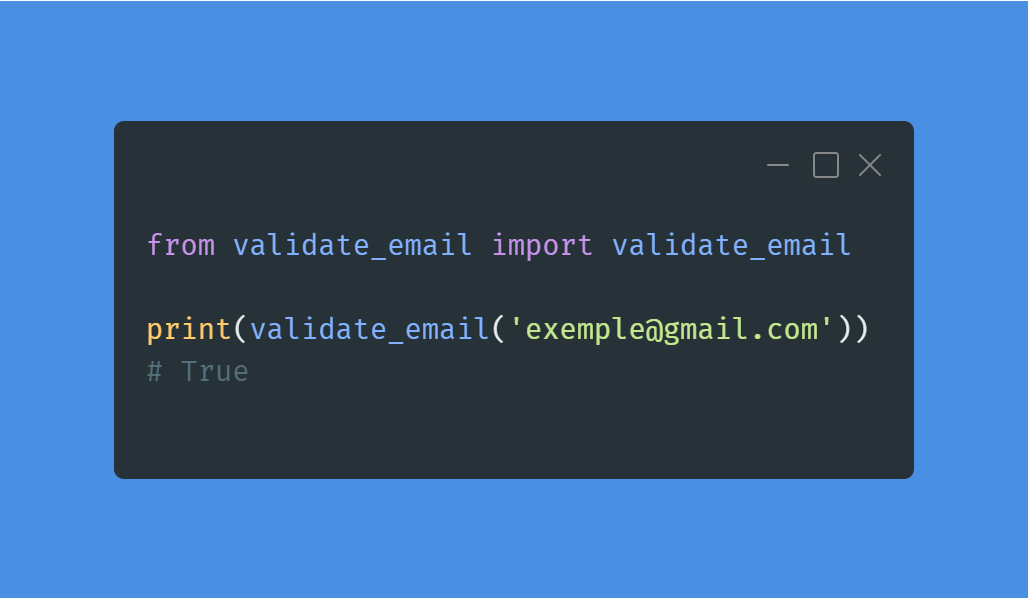
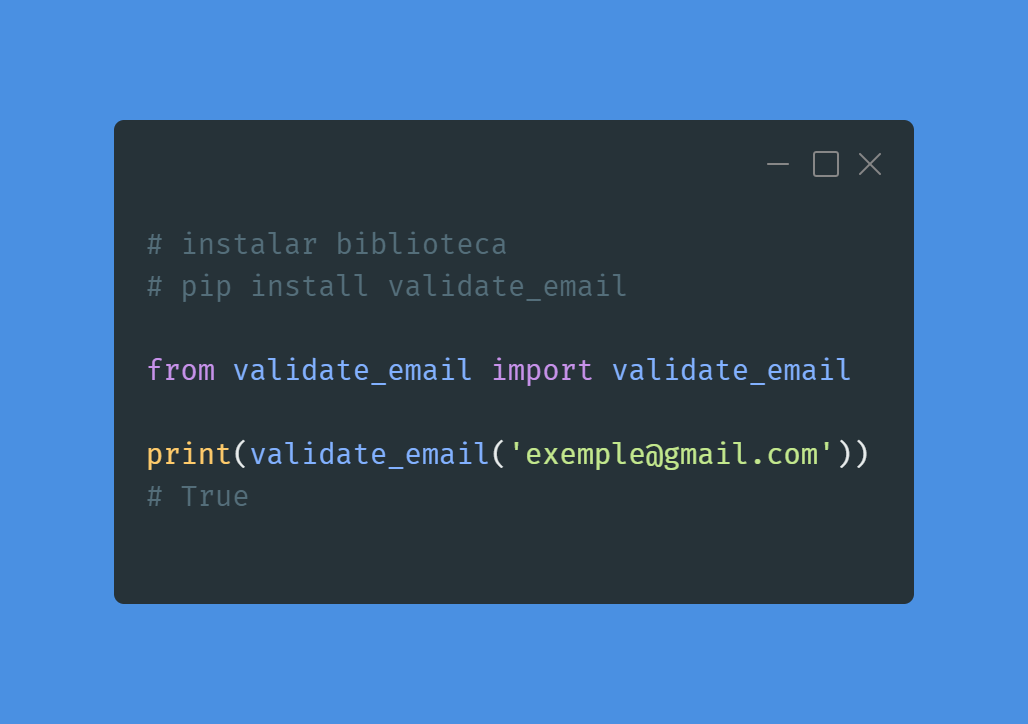
'40'

diff --git a/40_verifica_email/main.py b/40_verifica_email/main.py
@@ -1,7 +1,8 @@
+# instalar biblioteca
+# pip install validate_email
+
 from validate_email import validate_email
 
 print(validate_email('exemple@gmail.com'))
 # True
 
-print(validate_email('exemple@.com'))
-# False
